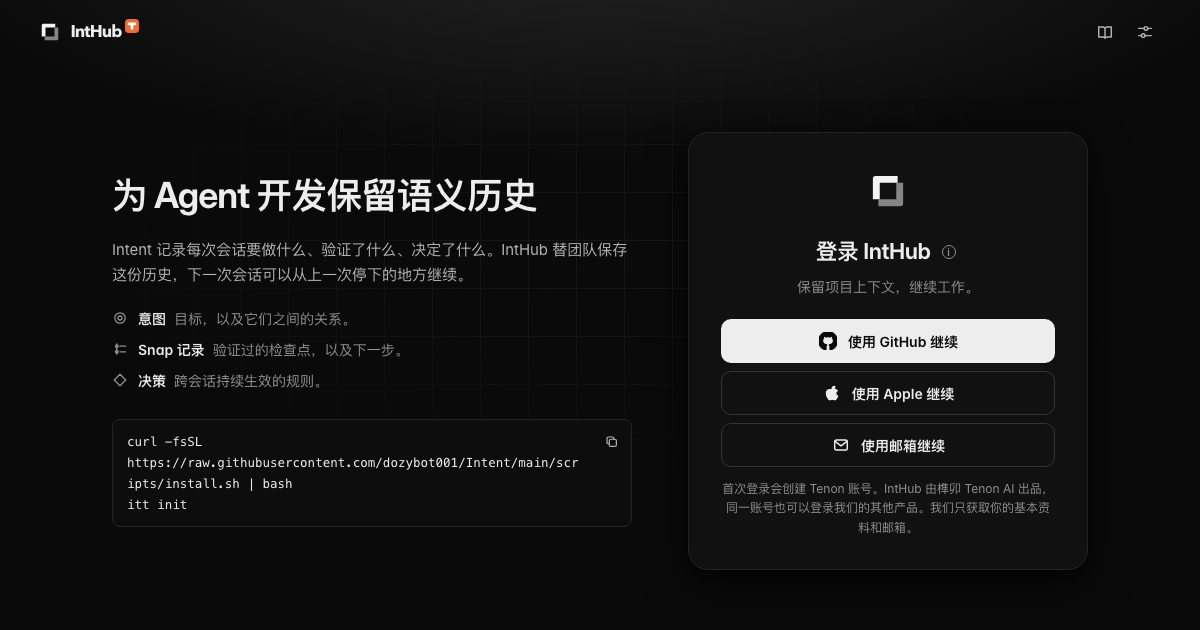
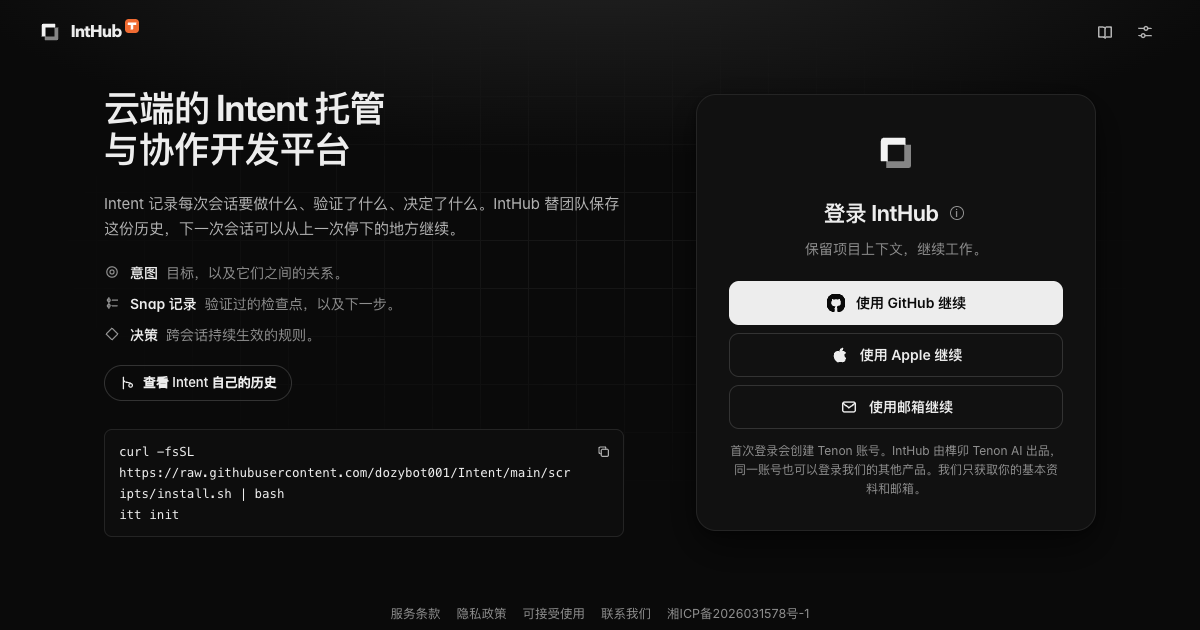
Release 8.1.3: IntHub's one-line definition
The owner settled the sentence that says what IntHub is, so the sign-in
heading, About, title, link preview and IntHub guide all use it. Intent
CLI's own description stays as it is until its positioning is decided.

The longer heading pushed the first sign-in button off a phone screen,
and focusing it scrolled the definition away, so that focus no longer
scrolls. The title now translates, and the preview image shows the sentence.

diff --git a/apps/inthub_web/static/i18n.js b/apps/inthub_web/static/i18n.js
@@ -32,7 +32,7 @@ window.IntHubI18n = (() => {
     "Continue with GitHub": "使用 GitHub 继续", "Continue with Apple": "使用 Apple 继续", "Continue with email": "使用邮箱继续", "Last used": "上次使用",
     "Opening sign-in…": "正在打开登录…", "Connecting to Apple…": "正在前往 Apple…", "Connecting to GitHub…": "正在前往 GitHub…",
     "Signing in for the first time creates a Tenon Account. IntHub is made by Tenon AI, and the same account works with our other products. We only receive your basic profile and email address.": "首次登录会创建 Tenon 账号。IntHub 由榫卯 Tenon AI 出品，同一账号也可以登录我们的其他产品。我们只获取你的基本资料和邮箱。",
-    "IntHub is a project continuity workspace for developers and Agents. It brings together Intent goals, Snap checkpoints and durable Decisions so work can resume with its context intact.": "IntHub 是面向开发者与 Agent 的项目接续工作台。它汇集 Intent 目标、Snap 检查点与长期 Decision，让工作在保留上下文的情况下继续。",
+    "A cloud platform for Intent hosting and collaborative development. It brings together Intent goals, Snap checkpoints and durable Decisions so work can resume with its context intact.": "云端的 Intent 托管与协作开发平台。它汇集 Intent 目标、Snap 检查点与长期 Decision，让工作在保留上下文的情况下继续。",
     "Sync semantic history from the Intent CLI, review the current continuation brief, explore the timeline and search project history.": "你可以通过 Intent CLI 同步语义历史，查看当前接续简报、浏览时间线与搜索项目历史。",
     "IntHub / developer access": "IntHub / 开发者访问", 
     "Copied": "已复制", "Signing out…": "正在退出…",
@@ -78,7 +78,7 @@ window.IntHubI18n = (() => {
     "That sign-in attempt expired. Please try again.": "登录请求已失效，请重试。", "Tenon sign-in could not be completed. Please try again.": "未能完成 Tenon 登录，请重试。", "Sign-in could not be completed.": "未能完成登录。",
     "Sign in again to continue.": "请重新登录后继续。", "Could not load data. Try again.": "无法加载数据，请重试。", "Permission denied.": "没有操作权限。", "Object no longer exists.": "对象已不存在。",
     "Login request timed out. Try again.": "登录请求超时，请重试。", "Could not prepare Tenon sign-in. Try again.": "无法准备 Tenon 登录，请重试。", "Retry": "重试", "Return to IntHub": "返回 IntHub",
-    "Showcase": "示例项目", "IntHub · Semantic history for agent-driven development": "IntHub · 面向 Agent 驱动开发的语义历史", "See Intent's own history": "查看 Intent 自己的历史", "Switch language": "切换语言", "Explanation": "说明", "No repository access is requested. Tenon manages identity; IntHub keeps its own 30-day session.": "无需仓库权限。Tenon 管理身份，IntHub 保持独立的30天会话。",
+    "Showcase": "示例项目", "IntHub · A cloud platform for Intent hosting and collaborative development": "IntHub · 云端的 Intent 托管与协作开发平台", "See Intent's own history": "查看 Intent 自己的历史", "Switch language": "切换语言", "Explanation": "说明", "No repository access is requested. Tenon manages identity; IntHub keeps its own 30-day session.": "无需仓库权限。Tenon 管理身份，IntHub 保持独立的30天会话。",
     "Search matches goals, checkpoints and decisions within the selected project. Cmd/Ctrl+K opens search.": "搜索当前项目中的目标、检查点和决策。Cmd/Ctrl+K 可打开搜索。",
     "A token grants CLI access to your own projects. It is shown once; keep it secret and revoke it when no longer needed.": "令牌供 CLI 访问你自己的项目，只显示一次。请妥善保管，不再使用时撤销。",
     "{count} decisions": "{count} 条决策", "{count} linked Intents": "{count} 个关联意图", "Applies to {count} linked Intents.": "适用于 {count} 个关联意图。",
@@ -237,7 +237,7 @@ window.IntHubI18n = (() => {
     "These may contain credentials: {list}. Check them first. Confirming again publishes anyway.": "这些对象可能含有凭据：{list}。请先检查。再次确认将仍然公开。",
     "private key": "私钥", "GitHub token": "GitHub 令牌", "API key": "API 密钥", "AWS access key": "AWS 访问密钥", "Slack token": "Slack 令牌", "IntHub token": "IntHub 令牌", "password in a URL": "URL 中的密码",
     "Terms": "服务条款", "Privacy": "隐私政策", "Acceptable use": "可接受使用", "Contact": "联系我们", "Report this project": "举报此项目", "湘ICP备2026031578号-1": "湘ICP备2026031578号-1",
-    "Semantic history for agent-driven development": "为 Agent 开发保留语义历史",
+    "A cloud platform for Intent hosting and collaborative development": "云端的 Intent 托管与协作开发平台",
     "Intent records what each session set out to do, what it verified and what it decided. IntHub keeps that history with your team, so the next session picks up where the last one stopped.": "Intent 记录每次会话要做什么、验证了什么、决定了什么。IntHub 替团队保存这份历史，下一次会话可以从上一次停下的地方继续。",
     "Goals, and how they relate.": "目标，以及它们之间的关系。", "Verified checkpoints, with the next step.": "验证过的检查点，以及下一步。", "Rules that stay binding across sessions.": "跨会话持续生效的规则。",
 

diff --git a/apps/inthub_web/static/index.html b/apps/inthub_web/static/index.html
@@ -5,12 +5,12 @@
     <meta name="viewport" content="width=device-width, initial-scale=1, viewport-fit=cover">
     <meta name="color-scheme" content="light dark">
     <meta name="theme-color" content="#fafafa">
-    <title>IntHub · Semantic history for agent-driven development</title>
-    <meta name="description" content="Semantic history for agent-driven development: goals, verified checkpoints and decisions that carry across sessions and teammates.">
+    <title>IntHub · A cloud platform for Intent hosting and collaborative development</title>
+    <meta name="description" content="A cloud platform for Intent hosting and collaborative development">
     <meta property="og:type" content="website">
     <meta property="og:site_name" content="IntHub">
     <meta property="og:title" content="IntHub">
-    <meta property="og:description" content="Semantic history for agent-driven development: goals, verified checkpoints and decisions that carry across sessions and teammates.">
+    <meta property="og:description" content="A cloud platform for Intent hosting and collaborative development">
     <meta property="og:url" content="https://inthub.tenon.asia/">
     <meta property="og:image" content="https://inthub.tenon.asia/og.png">
     <meta name="twitter:card" content="summary_large_image">
@@ -245,7 +245,7 @@
 
         <div class="auth-layout">
           <section class="auth-pitch" id="auth-pitch" aria-labelledby="auth-pitch-title">
-            <h2 id="auth-pitch-title">Semantic history for agent-driven development</h2>
+            <h2 id="auth-pitch-title">A cloud platform for Intent hosting and collaborative development</h2>
             <p>Intent records what each session set out to do, what it verified and what it decided. IntHub keeps that history with your team, so the next session picks up where the last one stopped.</p>
             <ul class="auth-points">
               <li data-icon="intent"><span><strong>Intents</strong> Goals, and how they relate.</span></li>
@@ -331,7 +331,7 @@
         </div>
         <p class="about-version">Version <span id="about-version">Loading…</span></p>
         <div class="about-description">
-          <p>IntHub is a project continuity workspace for developers and Agents. It brings together Intent goals, Snap checkpoints and durable Decisions so work can resume with its context intact.</p>
+          <p>A cloud platform for Intent hosting and collaborative development. It brings together Intent goals, Snap checkpoints and durable Decisions so work can resume with its context intact.</p>
           <p>Sync semantic history from the Intent CLI, review the current continuation brief, explore the timeline and search project history.</p>
         </div>
         <div class="about-publisher">

diff --git a/apps/inthub_web/static/js/auth.js b/apps/inthub_web/static/js/auth.js
@@ -53,7 +53,7 @@ function showAuthGate(message = "", { keepPage = false } = {}) {
     link.querySelector(".last-used").classList.toggle("is-hidden", link.dataset.loginMethod !== lastMethod);
   }
   setTenonLoginLoading();
-  window.setTimeout(() => el.tenonLogin.querySelector("[data-login-method]").focus(), 0);
+  window.setTimeout(() => el.tenonLogin.querySelector("[data-login-method]").focus({ preventScroll: true }), 0);
 }
 
 function hideAuthGate() {

diff --git a/apps/inthub_web/static/js/state.js b/apps/inthub_web/static/js/state.js
@@ -1,4 +1,5 @@
 const { t } = window.IntHubI18n;
+window.IntHubI18n.bindStatic(document.head);
 window.IntHubI18n.bindStatic(document.body);
 
 /* ---- State ---- */

diff --git a/apps/inthub_web/static/css/signin.css b/apps/inthub_web/static/css/signin.css
@@ -83,6 +83,7 @@
   font-weight: 650;
   line-height: 1.15;
   letter-spacing: -0.025em;
+  text-wrap: balance;
 }
 
 .auth-pitch > p {

diff --git a/tests/test_inthub_web_ui.py b/tests/test_inthub_web_ui.py
@@ -342,7 +342,7 @@ def test_visitors_see_what_this_is_and_every_page_names_its_operator():
     markup = _MarkupTags(html)
     # The sign-in page says what the product is, in the markup, and how to start.
     pitch = markup.by_id("auth-pitch")
-    assert pitch[0] == "section" and "Semantic history for agent-driven development" in html
+    assert pitch[0] == "section" and "A cloud platform for Intent hosting and collaborative development" in html
     assert 'el.authStart.innerHTML = commandSnippet([INSTALL_COMMAND, "itt init"]);' in javascript
     # Someone reading a public project who chose to sign in is not shown the pitch.
     assert 'el.authPitch.classList.toggle("is-hidden", keepPage);' in javascript
@@ -386,3 +386,13 @@ def test_the_favicon_is_our_own_mark_on_every_page():
         assert 'rel="icon" type="image/svg+xml" href="/favicon.svg"' in html and 'rel="apple-touch-icon"' in html
     shapes = set(re.findall(r' d="([^"]+)"', _static("inthub-mark.svg")))
     assert shapes and shapes == set(re.findall(r' d="([^"]+)"', _static("favicon.svg"))), "the favicon draws the IntHub mark"
+
+
+def test_the_one_line_definition_is_the_agreed_sentence():
+    english = "A cloud platform for Intent hosting and collaborative development"
+    html = _static("index.html")
+    assert f"<title>IntHub · {english}</title>" in html and html.count(f'content="{english}"') == 2
+    assert f'id="auth-pitch-title">{english}<' in html and f"<p>{english}. It brings" in html
+    translations = _static("i18n.js")
+    assert f'"{english}": "云端的 Intent 托管与协作开发平台"' in translations
+    assert "接续工作台" not in translations and "continuity workspace" not in html

diff --git a/docs/EN/inthub-collaboration.md b/docs/EN/inthub-collaboration.md
@@ -2,7 +2,7 @@
 
 [中文](../CN/inthub-collaboration.md) | English
 
-IntHub is the optional service for browsing and sharing Intent history. This guide covers the hosted service at [inthub.tenon.asia](https://inthub.tenon.asia). The model follows GitHub's: each project has an owner and is private or public, and a team gives its members roles.
+IntHub is a cloud platform for Intent hosting and collaborative development. It is optional, and you use it to browse and share Intent history. This guide covers the hosted service at [inthub.tenon.asia](https://inthub.tenon.asia). The model follows GitHub's: each project has an owner and is private or public, and a team gives its members roles.
 
 Two rules hold throughout:
 

diff --git a/docs/releases/v8.1.3.md b/docs/releases/v8.1.3.md
@@ -1,0 +1,9 @@
+# Intent 8.1.3
+
+Released 2026-11-02.
+
+- **IntHub's one-line definition.** IntHub now describes itself the same way everywhere: "A cloud platform for Intent hosting and collaborative development" (云端的 Intent 托管与协作开发平台). This covers the sign-in page, the About dialog, the page title, the link preview and the IntHub guide.
+- **The browser tab follows the language.** The tab title on the sign-in page now appears in Chinese when the page does.
+- **The sign-in page opens at the top on phones.** It no longer scrolls past the introduction to reach the first sign-in button.
+
+Run `pipx upgrade intent-history`, or re-run the installer.

diff --git a/docs/CN/inthub-collaboration.md b/docs/CN/inthub-collaboration.md
@@ -2,7 +2,7 @@
 
 中文 | [English](../EN/inthub-collaboration.md)
 
-IntHub 是可选的服务，用来浏览和共享 Intent 历史。本文介绍托管版 [inthub.tenon.asia](https://inthub.tenon.asia)。它的模型沿用 GitHub：每个项目有一个所有者，可以私有或公开，团队给成员分配角色。
+IntHub 是云端的 Intent 托管与协作开发平台。它是可选的，用来浏览和共享 Intent 历史。本文介绍托管版 [inthub.tenon.asia](https://inthub.tenon.asia)。它的模型沿用 GitHub：每个项目有一个所有者，可以私有或公开，团队给成员分配角色。
 
 有两条规则贯穿始终：
 
